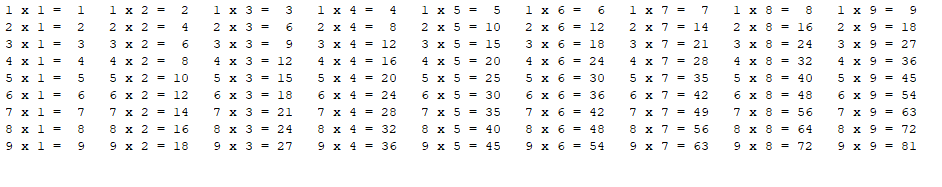
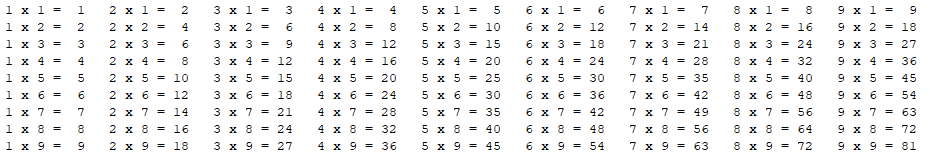
print 格式修改
print 格式修改

diff --git a/src/MultiTable/src/list9x9/MultiTable.java b/src/MultiTable/src/list9x9/MultiTable.java
@@ -14,9 +14,9 @@ public class MultiTable {
 			for(int j = 1; j <= 9; j ++)
 			{
 				if(i * j / 10 < 1)
-					System.out.print(i + " x " + j + " =  " + (i * j) + "   ");
+					System.out.print(j + " x " + i + " =  " + (i * j) + "   ");
 				else
-					System.out.print(i + " x " + j + " = " + (i * j) + "   ");
+					System.out.print(j + " x " + i + " = " + (i * j) + "   ");
 			}
 			System.out.println();
 		}
